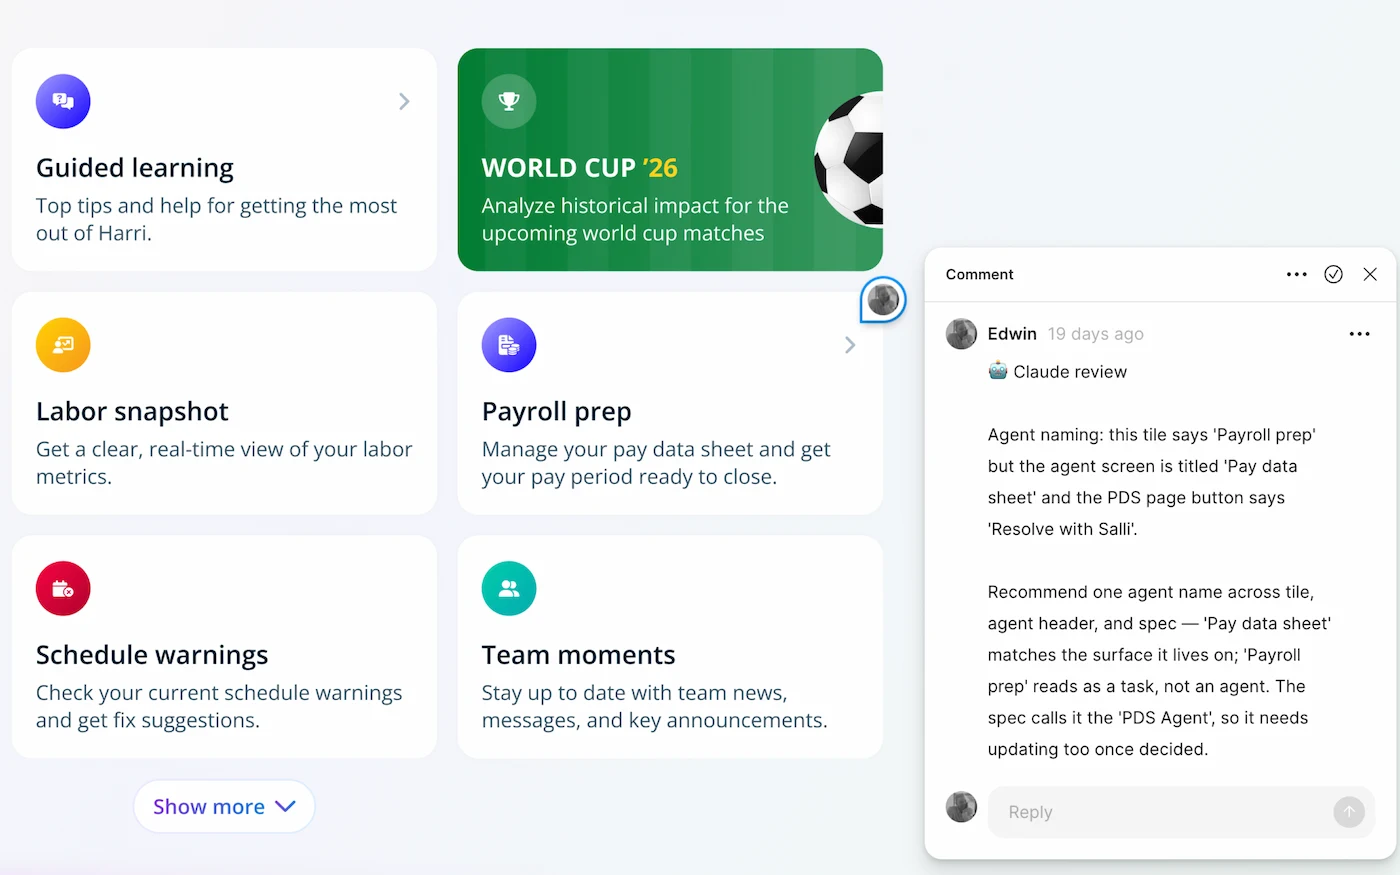
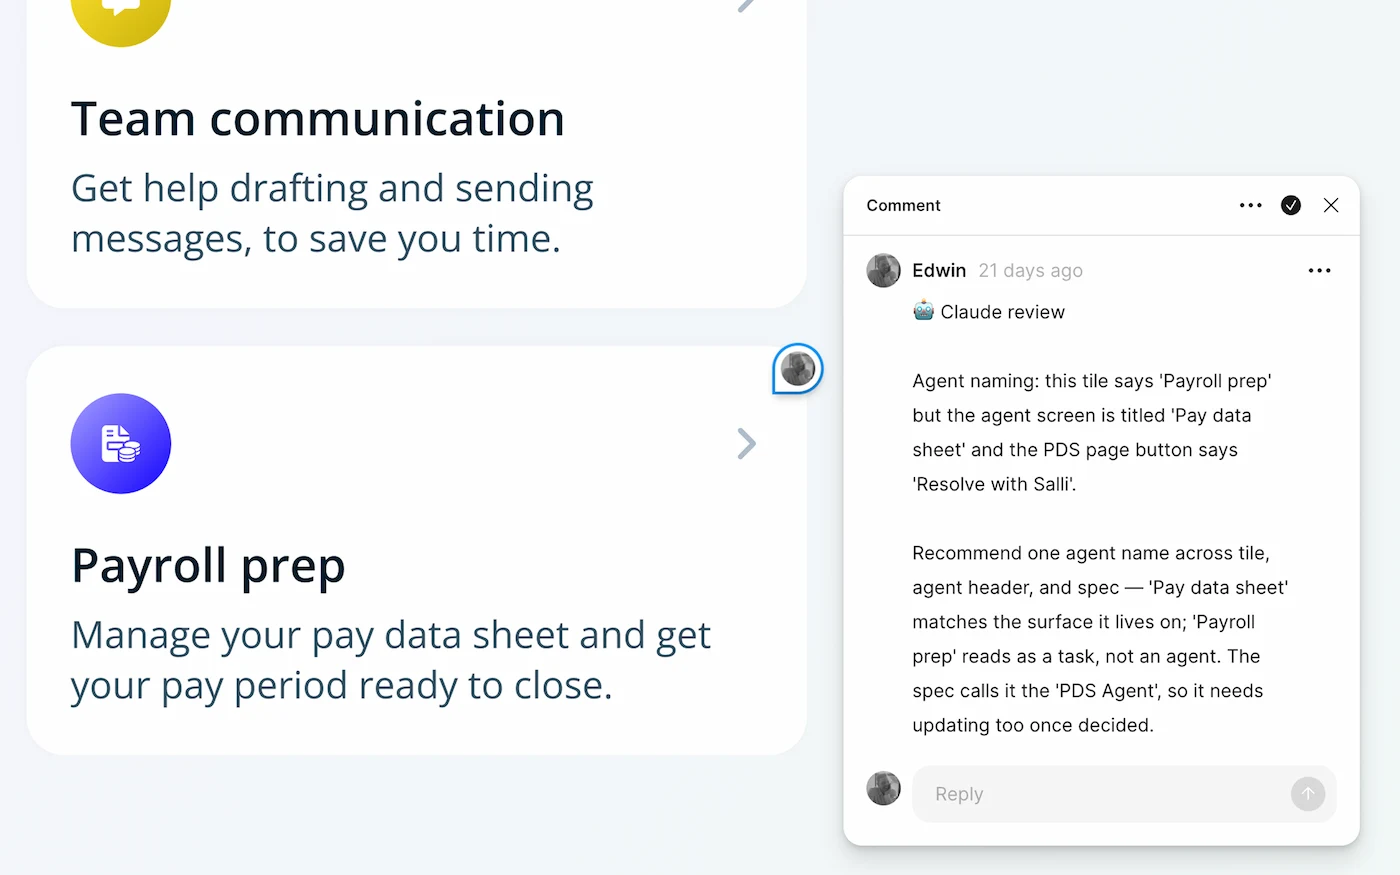
Finalise case study captions, alignment and copy
- Final caption copy for all four figures.
- Captions now sit at the reading measure rather than the figure's. A
  breakout diagram is wider than the text, but its caption is text, and
  hanging it off the diagram's left edge put it out of step with every
  other line on the page. The visual keeps its own measure; the
  figcaption moves into the narrow container.
- Two copy revisions: the review agent's task count, and the opening
  sentence of "What's shipped so far".
- Tighter crop on the review agent screenshot.

Lighthouse against a production build: desktop 100 accessibility /
100 best practices / 100 SEO with no failing audits, mobile 94
performance / 100 / 100 / 100. The mobile performance figure is LCP
under simulated 4G and matches what this site has recorded since
prompt 8.

The screenshot's comment text is still small at the reading measure —
Figma's comment panel is fixed-size chrome, so zooming the canvas
enlarges the design around it but not the comment itself. Left as-is
for now; the caption carries what the comment says.

diff --git a/src/app/work/[slug]/RepositioningProductDesignContent.tsx b/src/app/work/[slug]/RepositioningProductDesignContent.tsx
@@ -80,7 +80,7 @@ export function RepositioningProductDesignContent() {
       <Figure
         variant="svg"
         width="wide"
-        caption="Before. Every request routed through Product Design as the sole downstream step, regardless of complexity."
+        caption="Before. Every request went through Product Design, whatever its complexity."
       >
         <DeliveryModelBefore />
       </Figure>
@@ -144,7 +144,7 @@ export function RepositioningProductDesignContent() {
       <Figure
         variant="svg"
         width="wide"
-        caption="After. Two paths out of scope review — Tier 1 with Product Design at kickoff, Tier 2 PM-led with design review before build."
+        caption="After. Tier 1 puts Product Design at kickoff. Tier 2 is PM-led, with design review before build."
       >
         <DeliveryModelAfter />
       </Figure>
@@ -184,7 +184,7 @@ export function RepositioningProductDesignContent() {
       <Figure
         variant="svg"
         width="wide"
-        caption="The tier decision. Any yes routes to Tier 1; all four no routes to Tier 2."
+        caption="A single yes sends work to Tier 1. Tier 2 has to clear all four."
       >
         <TierDecisionFlow />
       </Figure>
@@ -261,14 +261,14 @@ export function RepositioningProductDesignContent() {
           practice and WCAG 2.2 AA. It runs in Claude Cowork with the Figma MCP
           and integrations into Jira and Confluence, so it reads the designs,
           the tickets and the documented standards together rather than
-          assessing a screen in isolation. It’s in its second week and has
-          reviewed 22 tasks.
+          assessing a screen in isolation. In its first three weeks it reviewed
+          15 tasks.
         </p>
       </Prose>
 
       <Figure
         variant="raster"
-        caption="The review agent commenting directly on a Figma frame."
+        caption="The review agent flagging an inconsistency between a tile label, the screen it opens, and the spec."
         image={{
           src: "/work/review-agent-comment.webp",
           alt: "A review comment pinned to a Figma design, headed “Claude review”, flagging that a tile labelled “Payroll prep” is named differently from the agent screen and the spec, and recommending a single consistent name across all three.",
@@ -293,9 +293,9 @@ export function RepositioningProductDesignContent() {
       <Prose>
         <p className="text-prose">
           PM-led design is running as an open-ended trial on a bounded set of
-          work: new reports and settings changes, around 12 tasks in so far. The
-          bar is no bottleneck in the design phase, and delivery that adheres to
-          the design system. If PMs tell me they’ve absorbed too much work, or
+          work, new reports and settings changes, and the first nine tasks have
+          been through it. The bar is no bottleneck in the design phase, and
+          delivery that adheres to the design system. If PMs tell me they’ve absorbed too much work, or
           if a structurally significant project reaches build without us, that’s
           a failure of the tiering and I’ll pull it back.
         </p>

diff --git a/src/components/CaseStudyLayout.tsx b/src/components/CaseStudyLayout.tsx
@@ -119,12 +119,16 @@ export function Figure(props: FigureProps) {
       data-revealed={isRevealed}
       className="my-12 md:my-16"
     >
-      <Measured width={width}>
-        {visual}
+      <Measured width={width}>{visual}</Measured>
+      {/* Captions always sit at the reading measure, never the figure's. A
+          breakout diagram is wider than the text, but its caption is text —
+          hanging it off the diagram's left edge puts it out of step with every
+          other line on the page. */}
+      <Container width="narrow">
         <figcaption className="text-small text-[var(--color-muted)] mt-4">
           {caption}
         </figcaption>
-      </Measured>
+      </Container>
     </figure>
   );
 }

diff --git a/docs/design-brief.md b/docs/design-brief.md
@@ -592,9 +592,13 @@ Note: the file tree above is current as of Prompt 10. Root-level files not shown
   - **Mobile SVGs are width-capped at 400px.** Found on review, and a genuine miss: verification had only tested 375px, where D3 measured a comfortable 524px. But an uncapped SVG keeps scaling with its container, so by a 600px viewport D3 rendered **885px** tall (D1 812, D2 763) for no gain in legibility. The fix is `mx-auto max-w-[400px]` on each mobile wrapper, applied to all three. **This is why a simplified mobile variant was not needed** — the content was never the problem, unbounded scaling was, and a second variant would have meant two copies of the tiering rules to keep in step.
   - **Hero — rebuilt from a different source.** First two attempts derived it from D3 and both failed: whole nodes read as empty boxes, and enlarged arcs read as a generic wave pattern carrying no meaning before the reader has scrolled. Rebuilt from **D1's convergence** instead — several lanes funnelling into one is legible as constriction even fully abstracted, and it states the title. `ConvergenceHero.tsx` (renamed from `TierDecisionHero` once the source changed). **Lines only**, which resolves four separate review points at once: nothing can be bisected by the frame because there is no object to cut; nothing terminates on a flat edge because the lowest lane is a curve on its way up; dark mode has no fills to go heavy on (the earlier node-based version's `--color-surface` fills read as solid blocks against charcoal); and both side edges run through an SVG **luminance mask** so lanes dissolve out of frame instead of hard-stopping. The black and white in that mask gradient are mask channels, not theme colours — the only hex in `src/components/diagrams/`, and noted in the file so a future grep doesn't flag it. Dead space between standfirst and hero closed from roughly 250px to **40px**, by starting the composition at the top of its own frame and tightening the layout's hero margin from `mt-12 md:mt-16` to `mt-8 md:mt-10`. Mobile keeps the hero: a steeper spread plus a heavier stroke (2 units against desktop's 1.25, compensating for the ~0.55 render scale that would otherwise put the line under a pixel) makes the funnel clearly legible at 375px.
   - **Raster slot wired.** `next/image`, explicit 1400 × 875, `--radius-md`, rendering 584 × 365 at exactly 16:10 through the Next optimiser with a srcset. Edwin supplied a stand-in at the requested dimensions first, then the real capture at the same size — `public/work/review-agent-comment.webp`, a review comment pinned to a Figma design headed "Claude review", flagging a naming inconsistency between a tile, the agent screen and the spec. Alt text was rewritten against the real image once it landed; the first version had been written blind to the intended subject and was accurate but generic.
-  - **Open decision — dark mode and the raster.** The screenshot's light surround becomes a bright slab against the charcoal page, noticeably heavier than anything else on the piece. `WorkRow.tsx` already solves this for the homepage with hand-authored `-dark` plates swapped via `<picture>`, but that pattern exists precisely because **`next/image` has no `prefers-color-scheme` art-direction API** — adopting it here would mean dropping `next/image` for this one figure, against the prompt's spec. Left as-is and flagged rather than changed unilaterally. Options if parity matters: supply a dark-UI capture plus `<picture>` (costs `next/image`), or accept that a screenshot of a light interface is light.
-  - **Figure captions still provisional** — untouched this prompt, per Edwin, and to be finalised now the visuals are settled.
-  - **Verification.** `npm run build` and `npm run lint` clean throughout. No hardcoded hex in `src/components/diagrams/` apart from the documented mask channels. No duplicate ids page-wide, so desktop and mobile marker defs are not colliding. Heading order h1 → seven h2s, no skips; 4/4 figures carry a real `figcaption`; 6/6 body diagram SVGs carry `role="img"` with `<title>` and `<desc>`; the hero carries none of those and sits inside `aria-hidden` with zero focusable descendants. Computed styles confirm **zero animation and zero transition inside every diagram**, so the existing `[data-reveal]` reduced-motion override in `globals.css` remains the only motion mechanism. No horizontal overflow at 375, 600, 768 or 1280, light and dark. **Lighthouse was not run** — unavailable in the build environment; the structural properties it would assess were checked instead, and the score is unconfirmed.
+  - **Dark mode and the raster — decided, no dark variant.** The screenshot is a light interface, so it sits brighter than the charcoal page around it. `WorkRow.tsx` solves this on the homepage with hand-authored `-dark` plates swapped via `<picture>`, and that pattern exists precisely because **`next/image` has no `prefers-color-scheme` art-direction API** — adopting it here would mean dropping `next/image` for this one figure. **Edwin's call: leave it.** A screenshot of a light product is light, and a case study figure is evidence rather than site chrome, so it doesn't need to match the page's tone the way the work-row plates do. Case study rasters do not need dark variants; don't reopen unless a future case study ships imagery that genuinely jars.
+  - **Figure captions final** (revised after the visuals settled): D1 "Before. Every request went through Product Design, whatever its complexity."; D2 "After. Tier 1 puts Product Design at kickoff. Tier 2 is PM-led, with design review before build."; D3 "A single yes sends work to Tier 1. Tier 2 has to clear all four."; image "The review agent flagging an inconsistency between a tile label, the screen it opens, and the spec."
+  - **Captions align to the reading column, never the figure's measure.** A breakout diagram is wider than the text, but its caption *is* text — hanging it off the diagram's left edge puts it out of step with every other line on the page. `Figure` renders the visual inside `Measured` and the `figcaption` inside `Container width="narrow"`, so all four captions share the prose left edge (348px at 1280, 92 at 768, 24 at 375) while the three diagrams keep their 824px breakout.
+  - **Screenshot legibility — measured, and a trap worth recording.** The comment text renders at roughly **7px on desktop** (584px column) and **4px at 375px**. A first re-crop zoomed the Figma canvas in, which magnified the design tiles but barely moved the comment: **Figma's comment panel is fixed-size UI chrome and does not scale with canvas zoom**, so zooming makes everything *except* the thing you need bigger. The only lever is cropping the frame tighter around the panel itself. **Still open at time of writing.** The case for shipping as-is: the caption states exactly what the comment flags, so a reader who can't read the screenshot loses nothing, and the image is evidence that review happens on real designs rather than a document to be read.
+  - **Lighthouse, run against a production build** (`npx lighthouse`, headless Chrome, `next start`): desktop **100 accessibility / 100 best practices / 100 SEO** with zero failing audits; mobile **94 performance / 100 / 100 / 100**. The mobile performance figure is LCP under simulated 4G, consistent with the 94–98 this site has recorded since Prompt 8, and not introduced by the visuals. Earlier prompt-11 reports said Lighthouse was unavailable — it is available via `npx`, which is worth remembering rather than re-deriving.
+  - **Verification.** `npm run build` and `npm run lint` clean throughout. No hardcoded hex in `src/components/diagrams/` apart from the documented mask channels. No duplicate ids page-wide, so desktop and mobile marker defs are not colliding. Heading order h1 → seven h2s, no skips; 4/4 figures carry a real `figcaption`; 6/6 body diagram SVGs carry `role="img"` with `<title>` and `<desc>`; the hero carries none of those and sits inside `aria-hidden` with zero focusable descendants. Computed styles confirm **zero animation and zero transition inside every diagram**, so the existing `[data-reveal]` reduced-motion override in `globals.css` remains the only motion mechanism. No horizontal overflow at 375, 600, 768 or 1280, light and dark. Lighthouse results are in the row above.
+  - **Swapping an image file without renaming it needs two caches cleared, not one.** Prompt 9.6 already recorded `rm -rf .next` for this when the Rewards image was replaced; it recurred here and cost a debugging round, so the specifics are worth having. Next's optimiser caches by URL, so a same-named replacement is invisible to it and it keeps serving the old bytes — the tell is `x-nextjs-cache: STALE` on the `/_next/image?...` response. **Next 16 keeps two image caches: `.next/cache/images` for production and `.next/dev/cache/images` for the dev server.** Clearing only the production one changes nothing in dev. Clear both, restart, and the header flips to `MISS`. Second lesson, on verifying it: checking the replacement with a `?v=` cache-buster on the raw file proves nothing, because it bypasses the optimiser — it will show the new image while the page still serves the old one. Verify against the page's own un-busted `/_next/image` URL, and compare pixels with a tolerance rather than a hash, since the optimiser re-encodes (a correct match here measured 0.68 mean channel difference, not 0).
 - [x] **Pre-cutover Lighthouse (Netlify deploy preview)** — Lighthouse run against the deployed Netlify preview after pushing all V1 work to `develop`. Scores: **mobile 98 Performance / 100 Accessibility / 100 Best Practices / 100 SEO**; **desktop 100 / 100 / 100 / 100**. Comfortably clear of the ≥90 target. The mobile Performance dropping a single point from 100 is almost certainly LCP throttling on the OG-image or hero portrait under Lighthouse's simulated 4G conditions — not worth chasing for V1, but a baseline if V1.1 work ever moves the score in either direction. Cleared for cutover.
 
 ---
